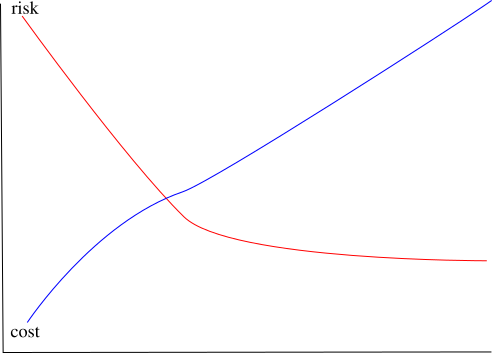
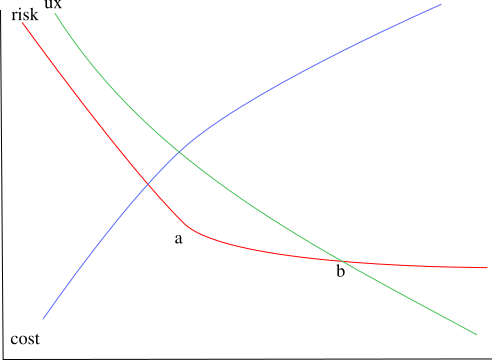
trim and clean

diff --git a/Slides.md b/Slides.md
@@ -6,8 +6,8 @@
 
 * Motivation
 * Framework of thought
-* The Attacker mindset
-* Protection guidelines
+* Getting into the Attacker mindset
+* Defense techniques
 * Passwords, secrets and lies
 * Seconomics
 
@@ -99,7 +99,7 @@ Legal based security
 
 ---
 
-# The Attacker mindset
+# Getting into the Attacker mindset
 
 ![hacker](images/hacker.png)
 ---
@@ -193,15 +193,12 @@ STRING Hello World
 
 ---
 
-### The 7 principles (influence)
+### Core Principles of influence
 
-* Reciprocity
 * Liking
 * Social Proof
 * Authority
 * Scarcity
-* Commitment in Consistency
-* Unity
 
 Note:
 
@@ -209,34 +206,38 @@ Examples per principle:
 * Reciprocity: John gave me access when I needed it
 * Liking: attractive profile picture
 * Social Proof:  A lot of likes on a post
-* Authority: ATO fake calls
-* Scarcity: a rare opportunity
-* Commitment in Consistency:
-* Unity: We both play hockey
+* Authority: An email from facebook asking us to verify ourself using an identity document
+* Scarcity: a rare opportunity, if you don't act now you will lose access
+* Commitment in Consistency: I'm true to my words, if I said ill do something I will do it
+* Unity: We both play hockey/shared a school/like fishing
 
 ---
 
-### Identity Deception
+### Spoofing
 
 * Email from header
 * Caller ids (inc SMS)
 * Urls ([са.com](https://www.xn--80a7a.com/))
 * Look&feel
 
-Note: see https://en.wikipedia.org/wiki/IDN_homograph_attack for URL encoding attacks
+Note:
+
+This deals with the basic problem of verifying identity
+
+See https://en.wikipedia.org/wiki/IDN_homograph_attack for URL encoding attacks
 
 ---
 
-# Protection guidelines
+# Defense techniques
 
 ![shield](images/shield.png)
 ---
 
 ### Compartmentalize
 
-* Sandbox heavily
+* Sandbox different runtimes
+* Separate by use case
 * Use Air gapped devices
-* Separate instances by use
 
 ---
 
@@ -258,29 +259,15 @@ Note:
 
 ---
 
-### General OS hardening
-
-* Remove unused services
-* Un-install unused apps
-* Don't run as root
-* Limit expose ports (firewall or bind to local)
-
----
-
-### Mobile hardening (1)
+### Mobile hardening
 
 * Choose Reputable vendor
 * Use >= 2 phones (per use case)
-* No root
-
----
-
-### Mobile hardening (2)
-
 * Reset/Restart once in a while
 * Deprecate non-updatable devices
-* Minimize installed apps and permissions
+* Minimize apps/permissions
 * Use browser when in doubt
+
 
 Note:
 * Ditch when no current and trusted ROM is available beyond official support
@@ -294,16 +281,16 @@ Note:
 * Minimal extensions set
 * Upgrade constantly
 * Don't trust PDF viewer blindly
-* Run single site per sandbox (i.e Qubes)
+* Single site per instance (i.e Qubes)
 
 ---
 
 ### Network hardening
 
-* segmented networks (VLAN's)
+* Segment networks (VLAN's)
 * Monitor traffic
-* block based on Geo/Reputation
-* Don't trust WIFI security
+* Block based on Geo/Reputation
+* Don't trust WIFI
 
 Note:
 
@@ -312,23 +299,16 @@ Note:
 
 ---
 
-### Trust
-
-* Open source
-* Prefer audited services
-* Understand permissions
-* Frequent patch cycles
-
----
-
 ### Verify
 
-* You can't prove security you can only refute it:
+* You can't prove* security you can only refute it:
   * Check activity logs.
   * Monitor your network/services (ELK/Pfsense)
   * Look for things which are out of place*
 
 Note:
+
+* In some specific contexts [proving](https://en.wikipedia.org/wiki/Provable_security) security is possible (but not in the messy general case that we are in)
 
 Things to watch out for:
 
@@ -416,31 +396,19 @@ Note:
 # Seconomics
 ---
 
-### stats
-
-* 20142 vuln in 2021, 2984 in 2022
-* Oldest CVE discovered as 21yo
-* 19K out of 170k are critical (11%)
-
-
-Note:
-
-Based on https://www.comparitech.com/blog/information-security/cybersecurity-vulnerability-statistics/
-
-
-CVE critically stats https://www.cvedetails.com/
-
----
-
-### Risk vs cost
+### Risk vs cost vs ux
 
 ![risk-vs-cost](images/risk-vs-cost.png)
 
----
+Note:
 
-### UX vs Risk
+We assume all are measured using a normalized common scale.
 
-![ux-vs-risk](images/ux-vs-risk.png)
+Cost is either financial or increased overhead
+
+From a certain point cost has diminishing effect on risk (point a)
+
+From a certain point usability is suffering (point b)
 
 ---
 
